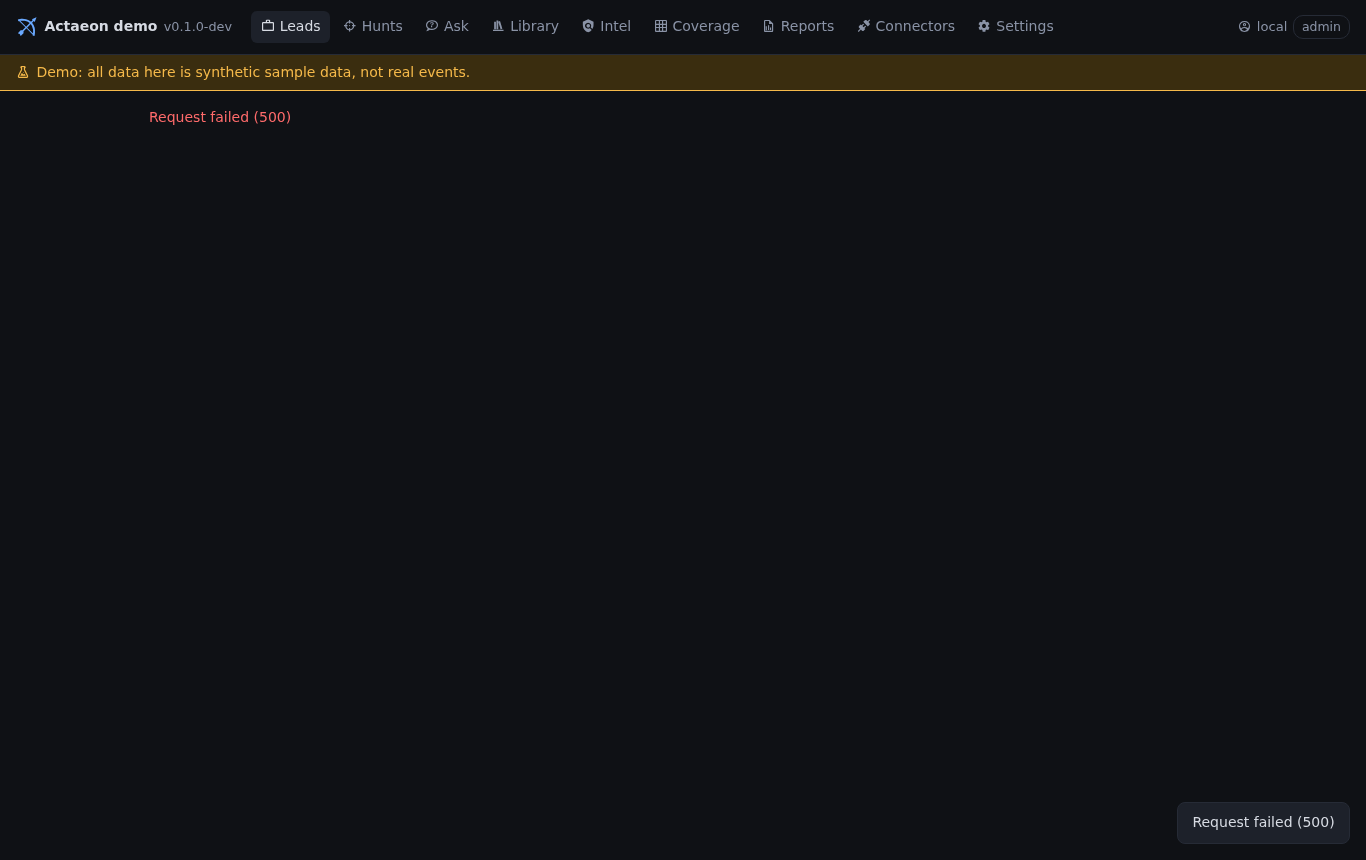
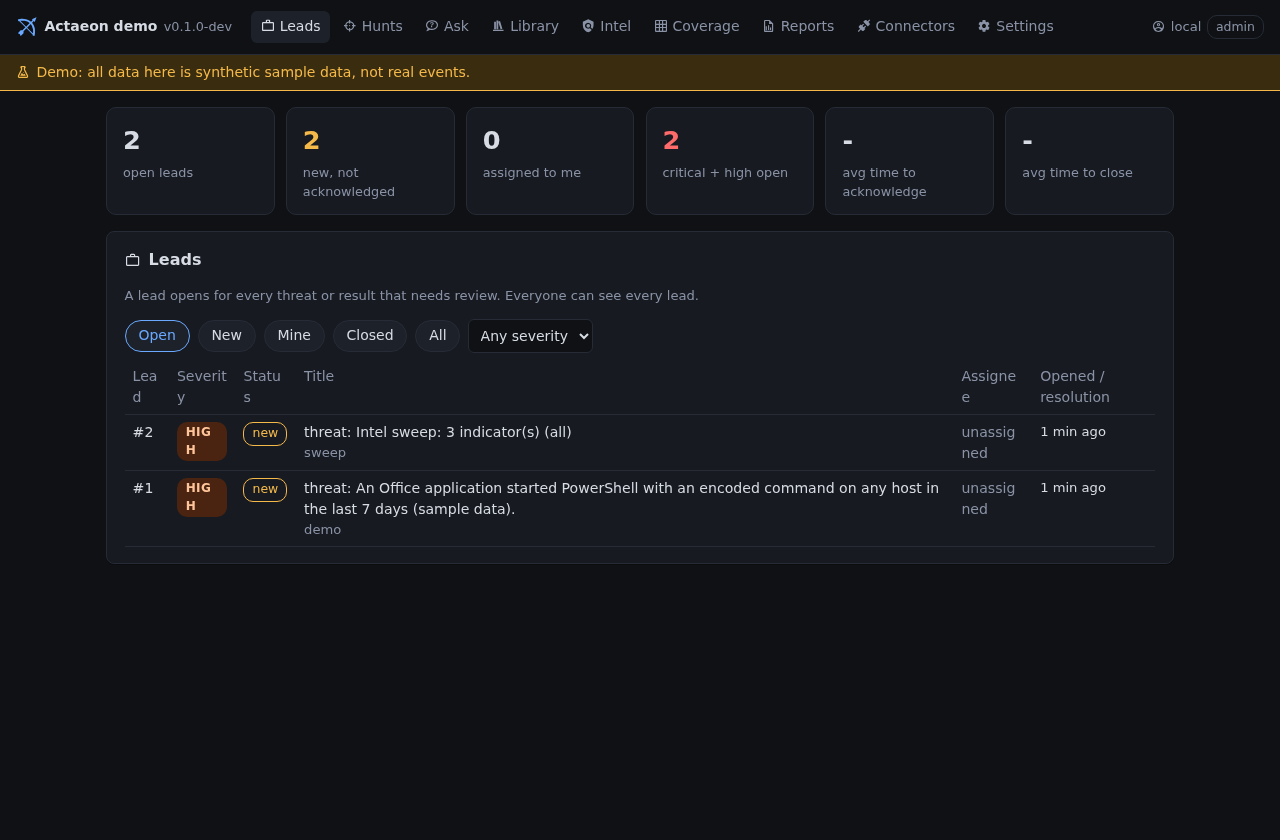
Fix remaining Lead UI labels and recapture demo screenshots

diff --git a/actaeon/static/app.js b/actaeon/static/app.js
@@ -57,15 +57,15 @@ let poll = null;
 function route() {
   clearInterval(poll); poll = null;
   const [tab, arg] = (location.hash.slice(1) || "leads").split("/");
-  const navTab = { hunt: "hunts", case: "leads" }[tab] || tab;
+  const navTab = { hunt: "hunts", lead: "leads" }[tab] || tab;
   document.querySelectorAll("#nav a").forEach((a) => a.classList.toggle("on", a.dataset.tab === navTab));
-  const pages = { leads, case: () => leadDetail(arg), hunts, hunt: () => huntDetail(arg), ask, library, intel,
+  const pages = { leads, lead: () => leadDetail(arg), hunts, hunt: () => huntDetail(arg), ask, library, intel,
     coverage, reports, connectors, settings };
   const token = ++navToken;
   const view = h("div");
   main = view;
   const done = () => { if (token === navToken) { fill(mainEl, view); main = mainEl; } };
-  (pages[tab] || cases)().then(done, (e) => { view.append(h("p", { class: "bad" }, String(e.message || e))); done(); });
+  (pages[tab] || leads)().then(done, (e) => { view.append(h("p", { class: "bad" }, String(e.message || e))); done(); });
 }
 window.addEventListener("hashchange", route);
 
@@ -115,7 +115,7 @@ async function leads() {
   };
   main.append(section("Leads", "briefcase-outline",
     h("p", { class: "muted small" }, "A lead opens for every threat or result that needs review. Everyone can see every lead."),
-    bar, h("table", {}, h("thead", {}, h("tr", {}, ["Case", "Severity", "Status", "Title", "Assignee", "Opened / resolution"].map((x) => h("th", {}, x)))), body)));
+    bar, h("table", {}, h("thead", {}, h("tr", {}, ["Lead", "Severity", "Status", "Title", "Assignee", "Opened / resolution"].map((x) => h("th", {}, x)))), body)));
   await load();
   poll = setInterval(load, 15000);
 }
@@ -210,13 +210,13 @@ async function reports() {
   const days = h("select", {}, [7, 30, 90, 365].map((d) => h("option", { value: d }, `Last ${d} days`)));
   const dl = (fmt) => () => { location.href = `/api/reports/summary.${fmt}?days=${days.value}`; };
   main.append(section("Summary report", "file-chart-outline",
-    h("p", { class: "muted small" }, "Hunts by outcome and origin, cases opened and closed, resolutions, time to acknowledge and close, open leads, threats found and top ATT&CK techniques."),
+    h("p", { class: "muted small" }, "Hunts by outcome and origin, leads opened and closed, resolutions, time to acknowledge and close, open leads, threats found and top ATT&CK techniques."),
     h("div", { class: "row" }, days,
       h("button", { onclick: dl("pdf") }, icon("file-pdf-box"), "PDF"),
       h("button", { class: "ghost", onclick: dl("docx") }, icon("file-word-box"), "Word"),
       h("button", { class: "ghost", onclick: dl("md") }, icon("language-markdown-outline"), "Markdown"))));
   const cs = await api("/api/leads");
-  main.append(section("Case reports", "briefcase-outline",
+  main.append(section("Lead reports", "briefcase-outline",
     h("table", {}, h("tbody", {}, cs.slice(0, 50).map((c) => h("tr", {},
       h("td", {}, h("a", { href: "#lead/" + c.id }, `#${c.id}`)), h("td", {}, SEV(c.severity)), h("td", {}, STATUS(c.status)), h("td", {}, c.title),
       h("td", {}, h("a", { href: `/api/leads/${c.id}/report.pdf` }, "PDF"), " ", h("a", { href: `/api/leads/${c.id}/report.docx` }, "Word"))))))));
@@ -292,7 +292,7 @@ function renderHunt(hu) {
   const act = (a) => async () => { await post(`/api/hunts/${hu.id}/${a}`); toast(a + " requested"); };
   const head = section(hu.hypothesis, "target",
     h("div", { class: "row" }, badge(hu.status), badge(hu.outcome),
-      hu.case ? h("a", { href: "#lead/" + hu.lead.id }, h("span", { class: "badge" }, icon("briefcase-outline"), ` lead #${hu.lead.id} ${hu.lead.status}${hu.lead.assignee ? " - " + hu.lead.assignee : ""}`)) : null,
+      hu.lead ? h("a", { href: "#lead/" + hu.lead.id }, h("span", { class: "badge" }, icon("briefcase-outline"), ` lead #${hu.lead.id} ${hu.lead.status}${hu.lead.assignee ? " - " + hu.lead.assignee : ""}`)) : null,
       h("span", { class: "muted small" },
       `started ${when(hu.created)}  origin ${hu.origin}  ${hu.actor ? "by " + hu.actor : ""}`)),
     h("div", { class: "row" },
